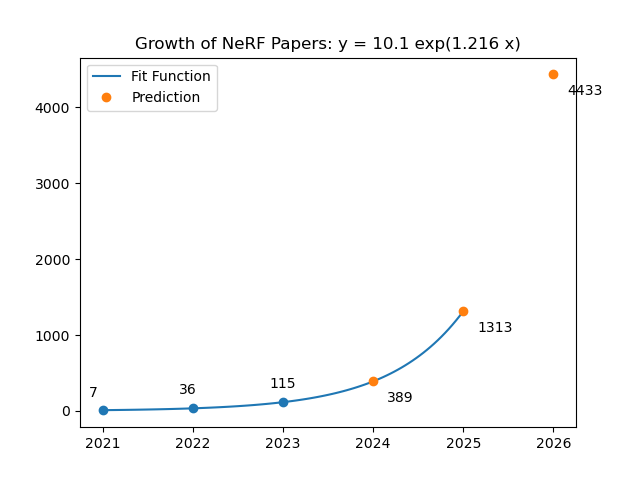
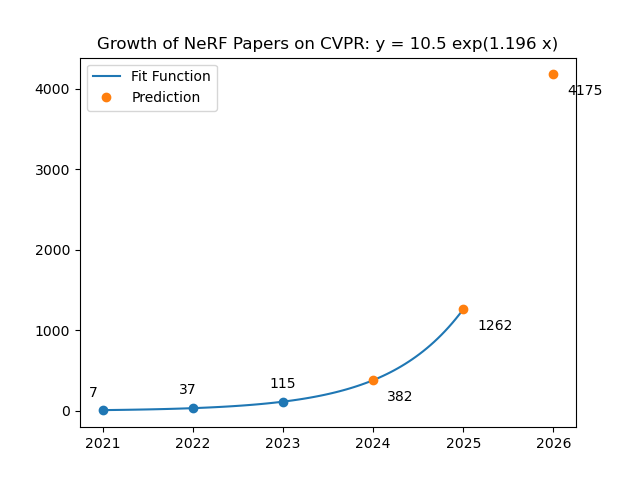
4.10: add NeRFs-CVPR2021/2022

diff --git a/NeRFs-CVPR2022.md b/NeRFs-CVPR2022.md
@@ -1,6 +1,6 @@
 # NeRFs-CVPR2022
 
-> - 当前论文数：36
+> - 当前论文数：37
 > - 收集来源：[CVPR 2022 open access](https://openaccess.thecvf.com/CVPR2022?day=all)  注：搜索词(“nerf” OR “radiance”)
 
 
@@ -1175,7 +1175,35 @@
 
 ---
 
-[37] 
+[37] NICE-SLAM: Neural Implicit Scalable Encoding for SLAM
+
+- 题目：NICE-SLAM：SLAM的神经隐式可扩展编码
+
+- 分类：NeRF-SLAM
+
+- Project: https://pengsongyou.github.io/nice-slam
+
+- Code: https://github.com/cvg/nice-slam
+
+- Paper: https://arxiv.org/pdf/2112.12130.pdf
+
+- 摘要：
+
+  > *Neural implicit representations have recently shown encouraging results in various domains, including promising progress in simultaneous localization and mapping (SLAM). Nevertheless, existing methods produce over-smoothed scene reconstructions and have difficulty scaling up to large scenes. These limitations are mainly due to their simple fully-connected network architecture that does not incorporate local information in the observations. In this paper, we present NICE-SLAM, a dense SLAM system that incorporates multi-level local information by introducing a hierarchical scene representation. Optimizing this representation with pre-trained geometric priors enables detailed reconstruction on large indoor scenes. Compared to recent neural implicit SLAM systems, our approach is more scalable, efficient, and robust. Experiments on five challenging datasets demonstrate competitive results of NICE-SLAM in both mapping and tracking quality. Project page: [this https URL](https://pengsongyou.github.io/nice-slam)*
+
+- 图示：
+
+![image-20230410192632117](NeRFs-CVPR2022.assets/image-20230410192632117.png)
+
+![img](https://pengsongyou.github.io/media/nice-slam/pipeline_overview.png)
+
+
+
+
+
+---
+
+[38] 
 
 - 题目：
 
@@ -1192,10 +1220,6 @@
   > **
 
 - 图示：
-
-
-
-
 
 
 

diff --git a/README.md b/README.md
@@ -7,12 +7,14 @@
 > - NeRF on CVPR: 
 >
 >   - [NeRFs-CVPR2021: 7](https://github.com/lif314/NeRFs-CVPR2023/blob/main/NeRFs-CVPR2021.md)
->   - [NeRFs-CVPR2022: 36](https://github.com/lif314/NeRFs-CVPR2023/blob/main/NeRFs-CVPR2022.md)
+>   - [NeRFs-CVPR2022: 37](https://github.com/lif314/NeRFs-CVPR2023/blob/main/NeRFs-CVPR2022.md)
 >   - [NeRFs-CVPR2023: 115](https://github.com/lif314/NeRFs-CVPR2023)
 >
 >   ![nerf-cvpr](NeRFs-CVPR2023.assets/nerf-cvpr.png)
 >
 > - 注：本来以为就60多篇，所以没有按照类别整理。现在有115篇，之后会按照类别重新整理1遍:smile:
+
+
 
 
 
